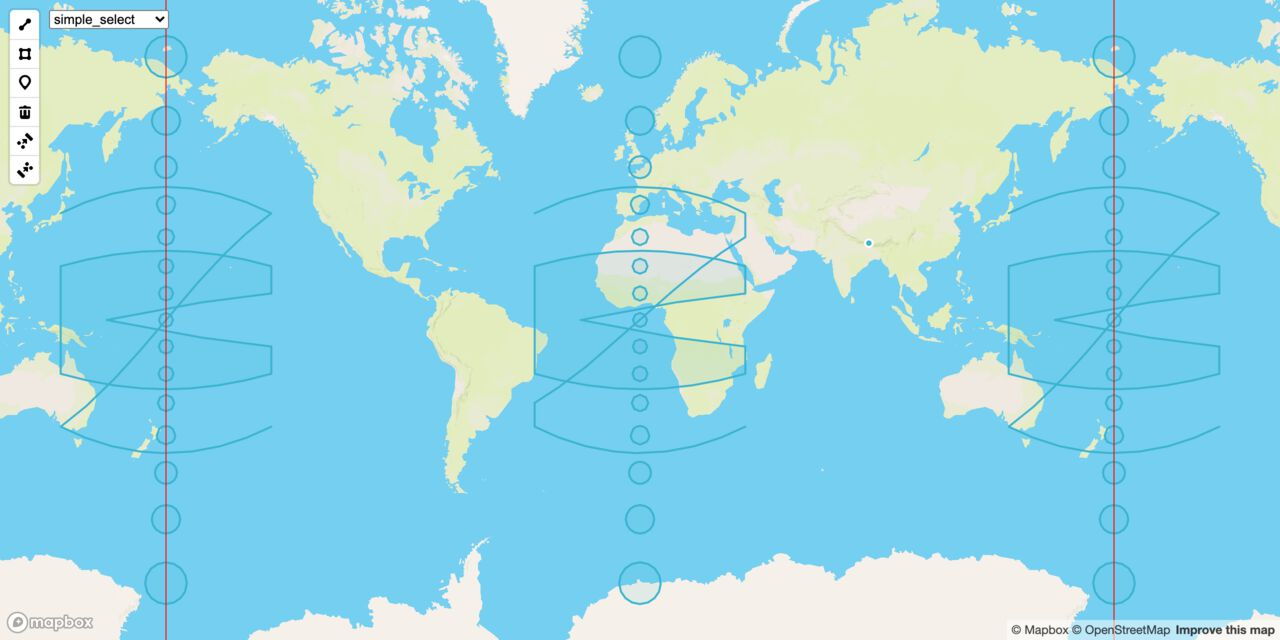
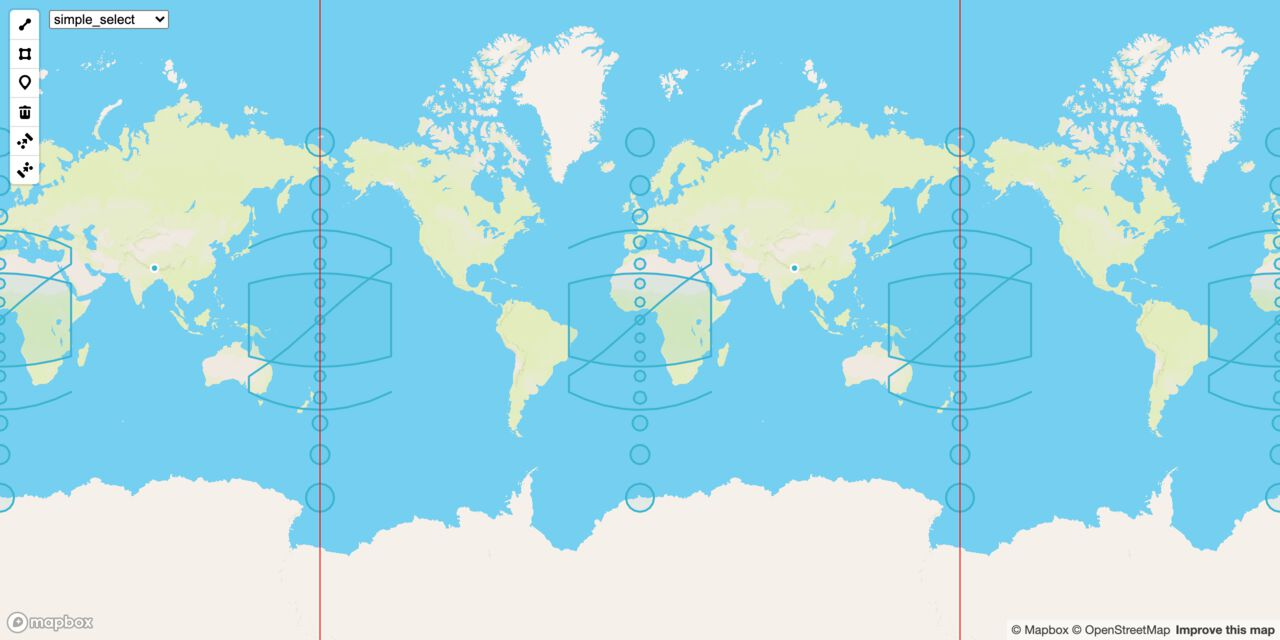
Update examples

diff --git a/docs/index.html b/docs/index.html
@@ -92,7 +92,7 @@ window.addEventListener('DOMContentLoaded', () => {
       properties: {},
       geometry: {
         type: 'Polygon',
-        coordinates: [[[-40, 20], [40, 20], [40, 10], [-22.5, 0], [40, -10], [40, -20], [-40, -20], [-40, 20]]]
+        coordinates: [[[-40, 20], [40, 20], [40, -20], [-40, -20], [-40, 20]]]
       }
     });
     draw.add({
@@ -116,7 +116,7 @@ window.addEventListener('DOMContentLoaded', () => {
       properties: {},
       geometry: {
         type: 'LineString',
-        coordinates: [[180 + -40, 37.5], [180 + 40, 37.5], [180 + -40, -37.5], [180 + 40, -37.5]]
+        coordinates: [[180 + -40, 37.5], [180 + 40, 37.5], [180 + 40, 30], [180 + -40, -30], [180 + -40, -37.5], [180 + 40, -37.5]]
       }
     });
     draw.add({
@@ -124,7 +124,7 @@ window.addEventListener('DOMContentLoaded', () => {
       properties: {},
       geometry: {
         type: 'Polygon',
-        coordinates: [[[180 + -40, 20], [180 + 40, 20], [180 + 40, 10], [180 + -22.5, 0], [180 + 40, -10], [180 + 40, -20], [180 + -40, -20], [180 + -40, 20]]]
+        coordinates: [[[180 + -40, 20], [180 + 40, 20], [180 + 40, -20], [180 + -40, -20], [180 + -40, 20]]]
       }
     });
   });
